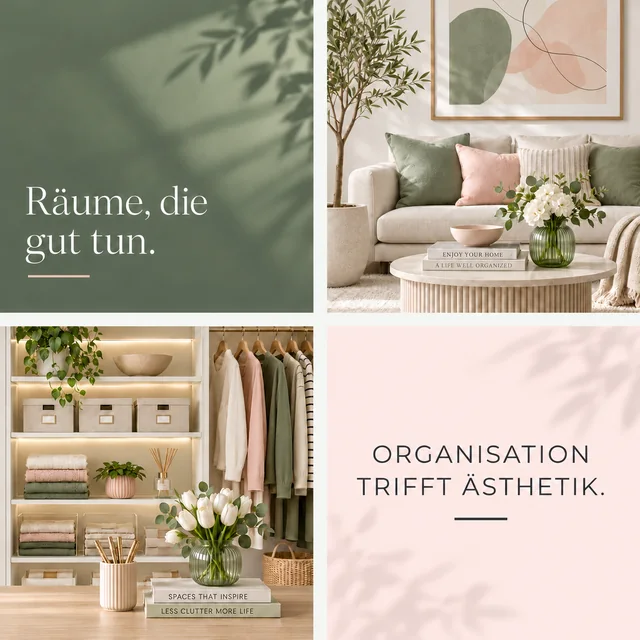
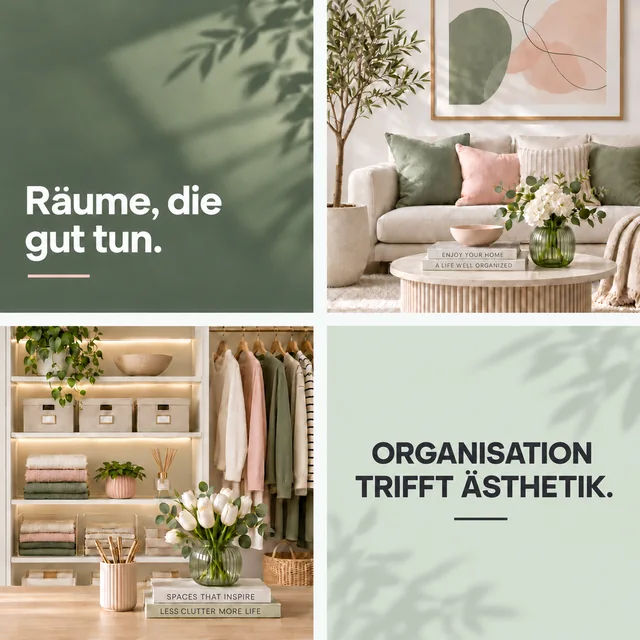
Use the new Projekte collage and match the English tiles, Version 2.2
projekte_homepage_final.png sets its tiles in bold sans and turns the
bottom-right tile sage soft. The English live-text tiles follow: Manrope
Bold, bg-sage-soft.

diff --git a/website/src/components/HomePage.tsx b/website/src/components/HomePage.tsx
@@ -235,8 +235,9 @@ export default function HomePage({ locale }: { locale: Locale }) {
             </div>
 
             {/* The "Anwendungsbeispiele" grid of the style-guide slide. German
-                shows the client's collage ("Bild Projekte.png"), whose tiles
-                are baked in; English rebuilds it with live-text tiles. */}
+                shows the client's collage ("projekte_homepage_final.png"), whose
+                tiles are baked in; English rebuilds it with live-text tiles in
+                the same style (Manrope Bold, sage-dark / sage-soft). */}
             {c.projects.collageAlt ? (
               <div className="relative">
                 {/* eslint-disable-next-line @next/next/no-img-element -- srcset; see BrandLogo */}
@@ -256,7 +257,7 @@ export default function HomePage({ locale }: { locale: Locale }) {
             ) : (
               <div className="relative">
                 <div className="grid grid-cols-2 gap-3 sm:gap-4">
-                  <p className="flex aspect-square items-end bg-sage-dark p-4 font-[family-name:var(--font-accent)] text-[clamp(1rem,0.85rem+0.8vw,1.5rem)] leading-snug text-white sm:p-6">
+                  <p className="flex aspect-square items-end bg-sage-dark p-4 text-[clamp(1rem,0.85rem+0.8vw,1.5rem)] leading-snug font-bold text-white sm:p-6">
                     {c.projects.tiles[0]}
                   </p>
                   <Image
@@ -271,9 +272,9 @@ export default function HomePage({ locale }: { locale: Locale }) {
                     sizes="(min-width: 1024px) 300px, 50vw"
                     className="aspect-square h-full w-full object-cover"
                   />
-                  {/* Slide 5 sets this tile in tracked capitals; below 640 px a
+                  {/* The collage sets this tile in bold capitals; below 640 px a
                       tile is ~110 px wide and "ORGANISATION" would not fit. */}
-                  <p className="flex aspect-square flex-col items-center justify-center bg-blush-soft p-4 text-center font-[family-name:var(--font-accent)] text-[clamp(1rem,0.85rem+0.6vw,1.25rem)] leading-snug text-anthrazit-dark sm:p-6 sm:tracking-[0.12em] sm:uppercase">
+                  <p className="flex aspect-square flex-col items-center justify-center bg-sage-soft p-4 text-center text-[clamp(1rem,0.85rem+0.6vw,1.25rem)] leading-snug font-bold text-anthrazit-dark sm:p-6 sm:tracking-[0.02em] sm:uppercase">
                     {c.projects.tiles[1]}
                     <span aria-hidden="true" className="rule mt-3 w-10 bg-anthrazit-dark" />
                   </p>

diff --git a/website/src/components/SiteFooter.tsx b/website/src/components/SiteFooter.tsx
@@ -55,7 +55,7 @@ export default function SiteFooter({
           <p>{"Claudia Plessl — Interior Design • Professional Organizing".replace(/ • /g, "\u00a0• ")}</p>
           <p>{content.footer.values.replace(/ • /g, "\u00a0• ")}</p>
         </div>
-        <p className="pb-4 text-center text-xs text-anthrazit-mid">Version 2.1 01.11.2026</p>
+        <p className="pb-4 text-center text-xs text-anthrazit-mid">Version 2.2 01.11.2026</p>
       </div>
     </footer>
   );

diff --git a/brand/build_web_assets.py b/brand/build_web_assets.py
@@ -5,7 +5,8 @@ Inputs (repo root, supplied by the client):
     Titelbild_Homepage_final.png
                             1947x808 RGB, homepage title image (2026-11-01)
     Titelbild Handy.png     637x1063, phone version of it (change deck 8.10.26, slide 2)
-    Bild Projekte.png       1254x1254, Projekte collage with the German tiles (2026-10-09)
+    projekte_homepage_final.png
+                            1254x1254, Projekte collage with the German tiles (2026-11-01)
     KI-generiertes Bild – Minimalistisches Siegel.png
                             1285x1224 RGBA, "KI-generiert" seal (change deck 16.10.26)
     KI-generiertes Video-Siegel.png
@@ -320,7 +321,7 @@ def main() -> None:
     build_ai_badge(Image.open(ROOT / "KI-generiertes Bild – Minimalistisches Siegel.png").convert("RGBA"))
     build_ai_badge(Image.open(ROOT / "KI-generiertes Video-Siegel.png").convert("RGB"), "ai-video-badge")
     build_portrait(Image.open(ROOT / "Foto Homepage über mich.png").convert("RGB"))
-    build_projects(Image.open(ROOT / "Bild Projekte.png").convert("RGB"))
+    build_projects(Image.open(ROOT / "projekte_homepage_final.png").convert("RGB"))
     build_icons(logo)
     build_og(logo, heroes)
 

diff --git a/SESSION_CHECKPOINT.md b/SESSION_CHECKPOINT.md
@@ -2,7 +2,7 @@
 
 ## Meta
 
-- Datum: 2026-11-01 (**Titelbild-Headlines (DE+EN, Desktop+Handy) jetzt in Manrope Bold laut Style Guide, Footer „Version 2.1 01.11.2026“**; **Neues Titelbild `Titelbild_Homepage_final.png` (fette Grotesk-Headline), EN-Headline in Hanken Grotesk ExtraBold, Footer „Version 2.0 01.11.2026“**; **„ich entscheide nicht über Ihren Besitz“ (Grundsätze + FAQ)**; **Über mich Absatz 3: „In meinen Workshops lernen Sie, …“**; **Über mich: „Interessant an dieser Arbeit ist für mich der Punkt, an dem beides zusammenfällt.“**; **Schritt 04 Nachbetreuung: „… ob noch Anpassungen erforderlich sind.“**; **Schritt 01 Raumcheck: „Ich nehme mir Zeit …“**; **Preis-Hinweis umgestellt: „Alle Preise sind aufgrund der Kleinunternehmerregelung Endpreise …“**; **Footer „Version 1.9 01.11.2026“**; **Karte 04 Re-Design: Lead-Schluss + Punkte 4/5 neu (Website + Handout)**; **Handout auf Website-Stand: neue Preise „,-“, Mein Angebot, Preistext, Ablauf**; **Karte 03, Punkt 3: „Präsentation passender Aufbewahrungs- und Gestaltungslösungen“**; **Preisschreibweise „EUR 480,-“ statt „EUR 480“ (DE+EN-Pakete, AGB EUR 600,-)**, siehe Abschnitt; **`STYLE GUIDE.pdf` aus `STYLE GUIDE.docx` erzeugt und committet**; **QR-Code lokal im Ordner `qr-code-claudiaplessl/` abgelegt (SVG, PNG 2000 px, .vcf)**; **Firmenwortlaut „Raum & Ordnung“ → „Interior Design • Professional Organizing“, LIVE**; **Bild-KI-Siegel (Titelbild + Projekte) ebenfalls auf 24/28/32 px**; **Video-KI-Siegel kleiner + nur am Anfang des Films**; **Video Frame 7 auf office@ umgestellt**; **Handout auf office@ umgestellt**; **Altes Gmail-basiertes Business-Starter-Abo gekündigt (Nutzerauftrag), keine Kosten**; **Website-Kontakt + vCard-QR auf office@claudiaplessl.at umgestellt, LIVE**; **office@claudiaplessl.at eingerichtet: neues separates Workspace-Konto, Domain verifiziert, MX/SPF/DKIM live — Test 2026-10-22 erfolgreich (SPF/DKIM/DMARC PASS)**, siehe Abschnitt Geschäfts-Mailbox;  **vCard-QR antippbar (.vcf), invertiert kurz beim Tippen, Footer „Version 1.8 19.10.2026"**; **KI-Siegel rechts unten im Titelbild mit Tooltip, auf halbe Größe verkleinert, **auch auf der Projekte-Collage**, **Video-Siegel oben rechts im Video**, LIVE**; **„Mein Angebot" neu (Folien 5–10), neue Preise, Karte 05 B2B + 06 Workshops**; **Preistabelle ersetzt durch Preistext, FAQ (Folie 14) neu**; **Preis-Abschnitt direkt unter „Mein Angebot"**; Workspace Starter Flexibel aktiviert; Google-Supportfall **76454656**, Registrierung blockiert; nächster Versuch **20.10.2026 nach 21:00 Europe/Vienna**; Website-Stand unverändert vom 12.10.; **FAQ „Was kostet der Einstieg?“ an Schritt 02 angeglichen**; **„So arbeiten wir zusammen“ neu getextet**; **Über-mich-Foto erneut getauscht, Version 1.7**; **Kontakt-Einleitung gekürzt**; **Footer „Version 1.6 12.10.2026“, Handout-Qualifikation an Website angeglichen**; **Qualifikation: WIFI Wien Lehrgang Innenraumgestaltung ergänzt, „Zahlreiche umgesetzte Projekte“ entfernt**; **„Angebot anfragen“ auch unter „Pakete & Preise“, Footer „Version 1.5 12.10.2026“**; **Button „Angebot anfragen“ am Ende von „Mein Angebot“ (mailto), Footer „Version 1.4 12.10.2026“**; **Button „Kostenloses Erstgespräch vereinbaren“ unter dem Video (mailto), Footer „Version 1.3 12.10.2026“**; **Video-Bildunterschrift entfernt, Footer „Version 1.2 12.10.2026“**; **Über-mich-Porträt neu** (`Foto Homepage final über mich.png`), siehe eigener Abschnitt; **Video Frame 3 neues Porträt + Footer „Version 1.1 12.10.2026“**, siehe eigener Abschnitt; **SEO-Branch `seo` nach `main` gemerged und LIVE**, siehe Abschnitt SEO-Plan; Workspace-Mailbox office@ in Arbeit, siehe eigener Abschnitt; Website: QR + Footer-Logo am Handy zentriert; **Video Frame 5: alle 4 Schritte auf einer Seite**; **Video-Stimme ruhig, souverän, vertrauenswürdig** (ersetzt die lebendige Fassung vom selben Tag), siehe Abschnitte)
+- Datum: 2026-11-01 (**Projekte-Collage neu `projekte_homepage_final.png` (Manrope-Bold-Kacheln, Kachel rechts unten Sage Soft), EN-Kacheln angeglichen, Footer „Version 2.2 01.11.2026“**; **Titelbild-Headlines (DE+EN, Desktop+Handy) jetzt in Manrope Bold laut Style Guide, Footer „Version 2.1 01.11.2026“**; **Neues Titelbild `Titelbild_Homepage_final.png` (fette Grotesk-Headline), EN-Headline in Hanken Grotesk ExtraBold, Footer „Version 2.0 01.11.2026“**; **„ich entscheide nicht über Ihren Besitz“ (Grundsätze + FAQ)**; **Über mich Absatz 3: „In meinen Workshops lernen Sie, …“**; **Über mich: „Interessant an dieser Arbeit ist für mich der Punkt, an dem beides zusammenfällt.“**; **Schritt 04 Nachbetreuung: „… ob noch Anpassungen erforderlich sind.“**; **Schritt 01 Raumcheck: „Ich nehme mir Zeit …“**; **Preis-Hinweis umgestellt: „Alle Preise sind aufgrund der Kleinunternehmerregelung Endpreise …“**; **Footer „Version 1.9 01.11.2026“**; **Karte 04 Re-Design: Lead-Schluss + Punkte 4/5 neu (Website + Handout)**; **Handout auf Website-Stand: neue Preise „,-“, Mein Angebot, Preistext, Ablauf**; **Karte 03, Punkt 3: „Präsentation passender Aufbewahrungs- und Gestaltungslösungen“**; **Preisschreibweise „EUR 480,-“ statt „EUR 480“ (DE+EN-Pakete, AGB EUR 600,-)**, siehe Abschnitt; **`STYLE GUIDE.pdf` aus `STYLE GUIDE.docx` erzeugt und committet**; **QR-Code lokal im Ordner `qr-code-claudiaplessl/` abgelegt (SVG, PNG 2000 px, .vcf)**; **Firmenwortlaut „Raum & Ordnung“ → „Interior Design • Professional Organizing“, LIVE**; **Bild-KI-Siegel (Titelbild + Projekte) ebenfalls auf 24/28/32 px**; **Video-KI-Siegel kleiner + nur am Anfang des Films**; **Video Frame 7 auf office@ umgestellt**; **Handout auf office@ umgestellt**; **Altes Gmail-basiertes Business-Starter-Abo gekündigt (Nutzerauftrag), keine Kosten**; **Website-Kontakt + vCard-QR auf office@claudiaplessl.at umgestellt, LIVE**; **office@claudiaplessl.at eingerichtet: neues separates Workspace-Konto, Domain verifiziert, MX/SPF/DKIM live — Test 2026-10-22 erfolgreich (SPF/DKIM/DMARC PASS)**, siehe Abschnitt Geschäfts-Mailbox;  **vCard-QR antippbar (.vcf), invertiert kurz beim Tippen, Footer „Version 1.8 19.10.2026"**; **KI-Siegel rechts unten im Titelbild mit Tooltip, auf halbe Größe verkleinert, **auch auf der Projekte-Collage**, **Video-Siegel oben rechts im Video**, LIVE**; **„Mein Angebot" neu (Folien 5–10), neue Preise, Karte 05 B2B + 06 Workshops**; **Preistabelle ersetzt durch Preistext, FAQ (Folie 14) neu**; **Preis-Abschnitt direkt unter „Mein Angebot"**; Workspace Starter Flexibel aktiviert; Google-Supportfall **76454656**, Registrierung blockiert; nächster Versuch **20.10.2026 nach 21:00 Europe/Vienna**; Website-Stand unverändert vom 12.10.; **FAQ „Was kostet der Einstieg?“ an Schritt 02 angeglichen**; **„So arbeiten wir zusammen“ neu getextet**; **Über-mich-Foto erneut getauscht, Version 1.7**; **Kontakt-Einleitung gekürzt**; **Footer „Version 1.6 12.10.2026“, Handout-Qualifikation an Website angeglichen**; **Qualifikation: WIFI Wien Lehrgang Innenraumgestaltung ergänzt, „Zahlreiche umgesetzte Projekte“ entfernt**; **„Angebot anfragen“ auch unter „Pakete & Preise“, Footer „Version 1.5 12.10.2026“**; **Button „Angebot anfragen“ am Ende von „Mein Angebot“ (mailto), Footer „Version 1.4 12.10.2026“**; **Button „Kostenloses Erstgespräch vereinbaren“ unter dem Video (mailto), Footer „Version 1.3 12.10.2026“**; **Video-Bildunterschrift entfernt, Footer „Version 1.2 12.10.2026“**; **Über-mich-Porträt neu** (`Foto Homepage final über mich.png`), siehe eigener Abschnitt; **Video Frame 3 neues Porträt + Footer „Version 1.1 12.10.2026“**, siehe eigener Abschnitt; **SEO-Branch `seo` nach `main` gemerged und LIVE**, siehe Abschnitt SEO-Plan; Workspace-Mailbox office@ in Arbeit, siehe eigener Abschnitt; Website: QR + Footer-Logo am Handy zentriert; **Video Frame 5: alle 4 Schritte auf einer Seite**; **Video-Stimme ruhig, souverän, vertrauenswürdig** (ersetzt die lebendige Fassung vom selben Tag), siehe Abschnitte)
 - Repository: `AINxtGenDev/interior-design` (public)
 - Arbeitskopie: `/home/nuc8/05_development/55_laulau/78_plessl-website`
   (**verschoben am 2026-08-16** — vorher `/home/nuc8/05_development/78_plessl-website`)
@@ -40,6 +40,16 @@
   **Workspace-Fortsetzung:** Bis **20.10.2026 nach 21:00 Europe/Vienna** keine weiteren Domainregistrierungs-/Verifikationsversuche.
   Danach im bestehenden Gmail-basierten Workspace-Konto die Custom-Email-Einrichtung fortsetzen; bei erneutem Fehler Supportfall **76454656** eskalieren.
   **Ab 27.10.2026 kostenpflichtig:** Starter Flexibel, 1 Nutzer, 8,10 €/Monat zzgl. anwendbarer Steuern. Vorher Status prüfen.
+
+## Projekte-Collage neu + Version 2.2 (2026-11-01, Nutzerauftrag „use this image projekte_homepage_final.png“) — committet, Live-Prüfung folgt
+
+- Quelle `projekte_homepage_final.png` (1254×1254, gleiches 2×2-Raster, Rinnen unverändert → `PROJECTS_LIVING/ORDER`-Ausschnitte gültig).
+  Neu: Kacheltexte fett (Manrope-Stil) statt Serif/Montserrat; Kachel rechts unten **Sage Soft #D6E0D4** statt Blush.
+  `build_web_assets.py` liest die neue Datei; `Bild Projekte.png` bleibt als altes Original liegen.
+- EN-Seite (Live-Text-Kacheln) angeglichen: beide Kacheln Manrope Bold, rechts unten `bg-sage-soft`, Versal-Laufweite 0,02em (vorher 0,12em).
+- Footer **„Version 2.2 01.11.2026“**.
+- Geprüft lokal: DE 1440 px Collage `projects-1254` geladen; EN 1440 + 393 px Kacheln Manrope 700, Sage Soft, kein Überlauf;
+  Konsole nur bekannter Lazy-Image-Hinweis.
 
 ## Titelbild-Headlines in Manrope Bold + Version 2.1 (2026-11-01, Nutzerauftrag: „same textstyle as the German one“, Style-Guide-Screenshot „Manrope Bold – Headlines“, „auch am Handy/Tablet“) — **LIVE** (`3b82e70`, Deploy `41309328494` success; live `/` + `/en/`: Version 2.1, alle 12 Hero-WebPs 200 = lokaler Build)
 
